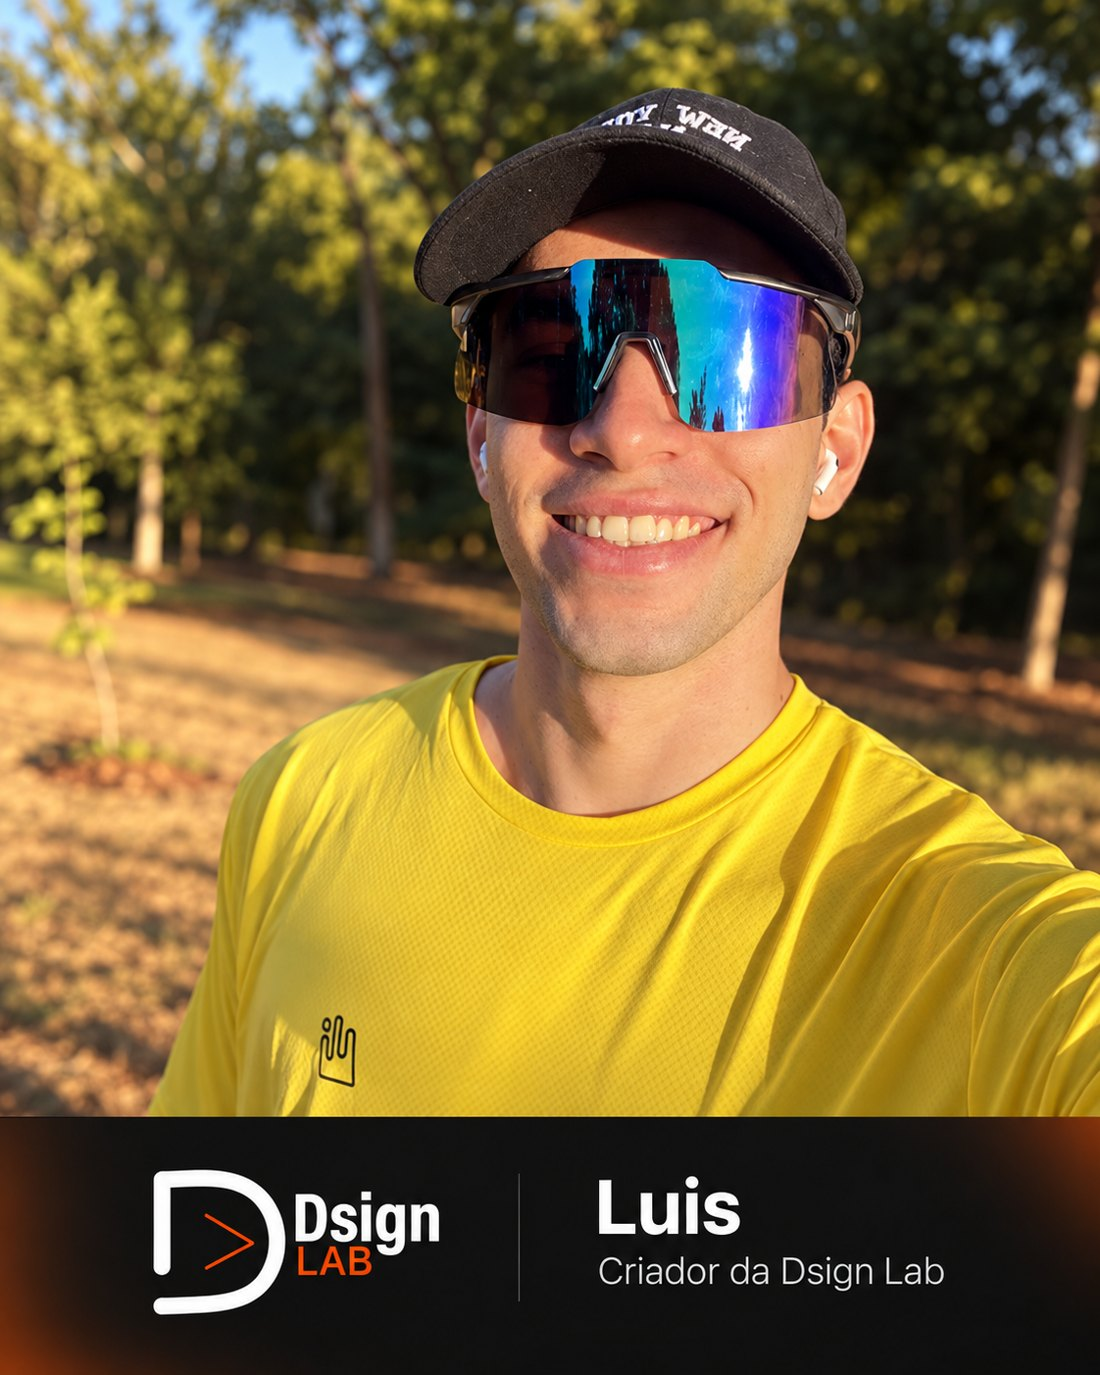
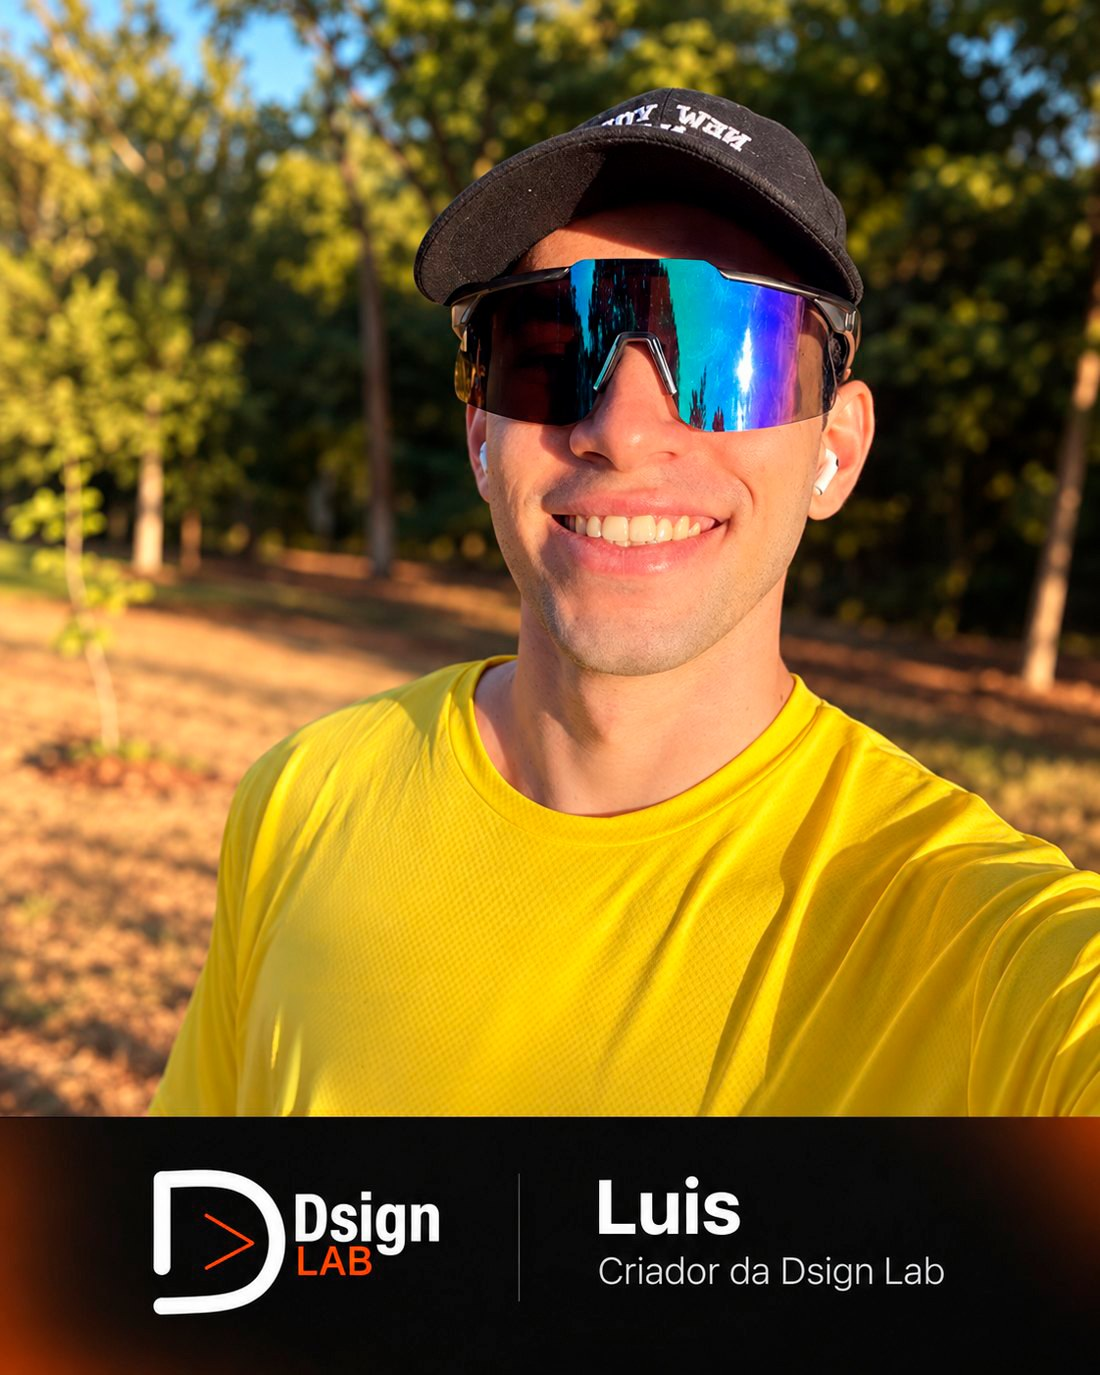
Add files via upload

diff --git a/index.html b/index.html
@@ -39,12 +39,6 @@
     .projeto img { box-shadow: 0 0 0 1px rgba(17, 17, 17, .08), 0 10px 28px rgba(17, 17, 17, .10); transition: box-shadow .3s ease, transform .3s ease; }
     .projeto:hover img { box-shadow: 0 0 0 1px rgba(17, 17, 17, .10), 0 16px 40px rgba(17, 17, 17, .16); transform: translateY(-3px); }
     @media (prefers-reduced-motion: reduce) { .projeto:hover img { transform: none; } }
-    /* Selo do mascote na seção Sobre */
-    .sobre__selo { align-self: flex-start; display: inline-flex; align-items: center; gap: 14px; padding: 10px 22px 10px 10px; background: var(--superficie); border-radius: 999px; box-shadow: 0 0 0 1px rgba(17, 17, 17, .06), 0 6px 18px rgba(17, 17, 17, .08); }
-    .sobre__selo img { width: 64px; height: 64px; object-fit: cover; object-position: center 20%; border-radius: 50%; background: var(--fundo); }
-    .sobre__selo-texto { display: flex; flex-direction: column; gap: 2px; line-height: 1.25; }
-    .sobre__selo-rotulo { font-size: 12px; font-weight: 700; letter-spacing: .08em; text-transform: uppercase; color: var(--destaque-texto); }
-    .sobre__selo-nome { font-size: 15px; color: var(--texto-2); }
   </style>
 </head>
 <body>
@@ -162,13 +156,6 @@
       <h2 class="titulo-secao titulo-secao--menor">Um laboratório de ideias visuais</h2>
       <p>A Dsign Lab nasceu para transformar ideias em design que funciona — da essência da marca à forma como ela se comunica.</p>
       <p class="sobre__extra">Sou Luis, designer gráfico e fundador da Dsign Lab. Meu propósito é ajudar marcas a transformarem suas ideias em uma identidade visual que comunique, conecte e marque presença.</p>
-      <div class="sobre__selo">
-        <img src="assets/img/mascote-dsignlab.png" alt="Mascote da Dsign Lab: ilustração laranja de Luis de boné e óculos escuros, de braços cruzados" width="288" height="400" loading="lazy">
-        <div class="sobre__selo-texto">
-          <span class="sobre__selo-rotulo">Personalidade da marca</span>
-          <span class="sobre__selo-nome"></span>
-        </div>
-      </div>
     </div>
   </section>
 
